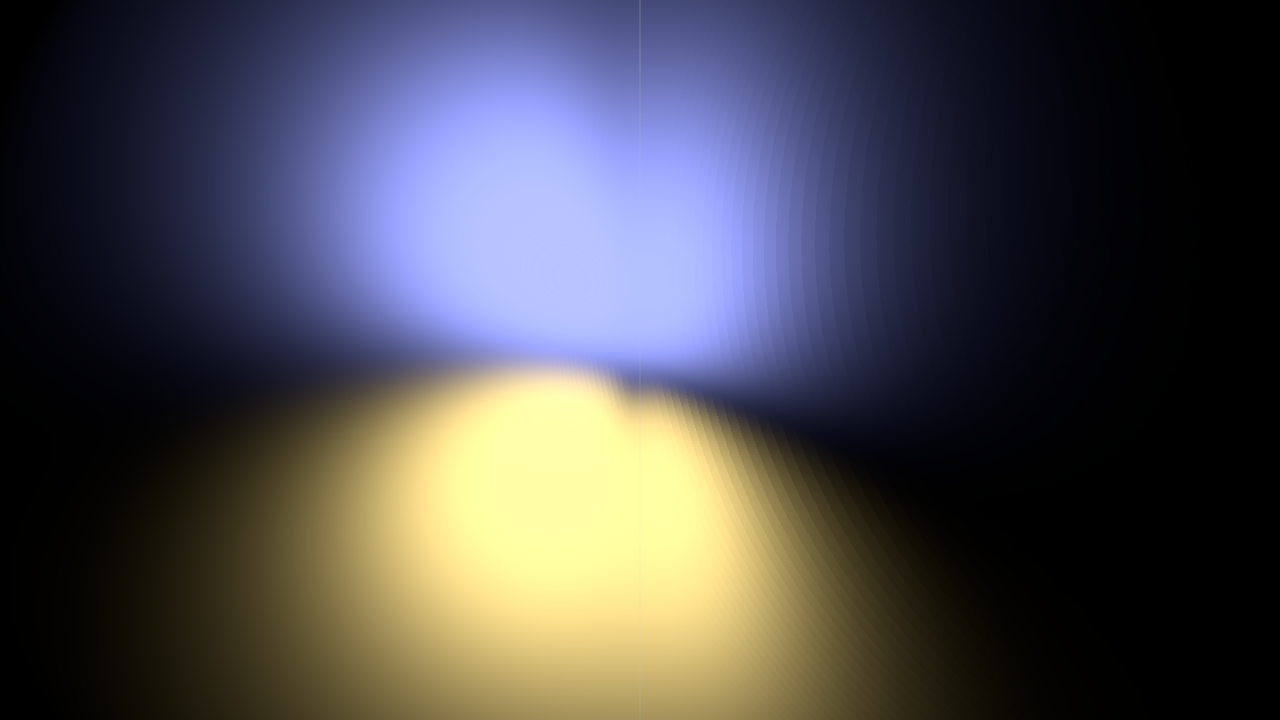
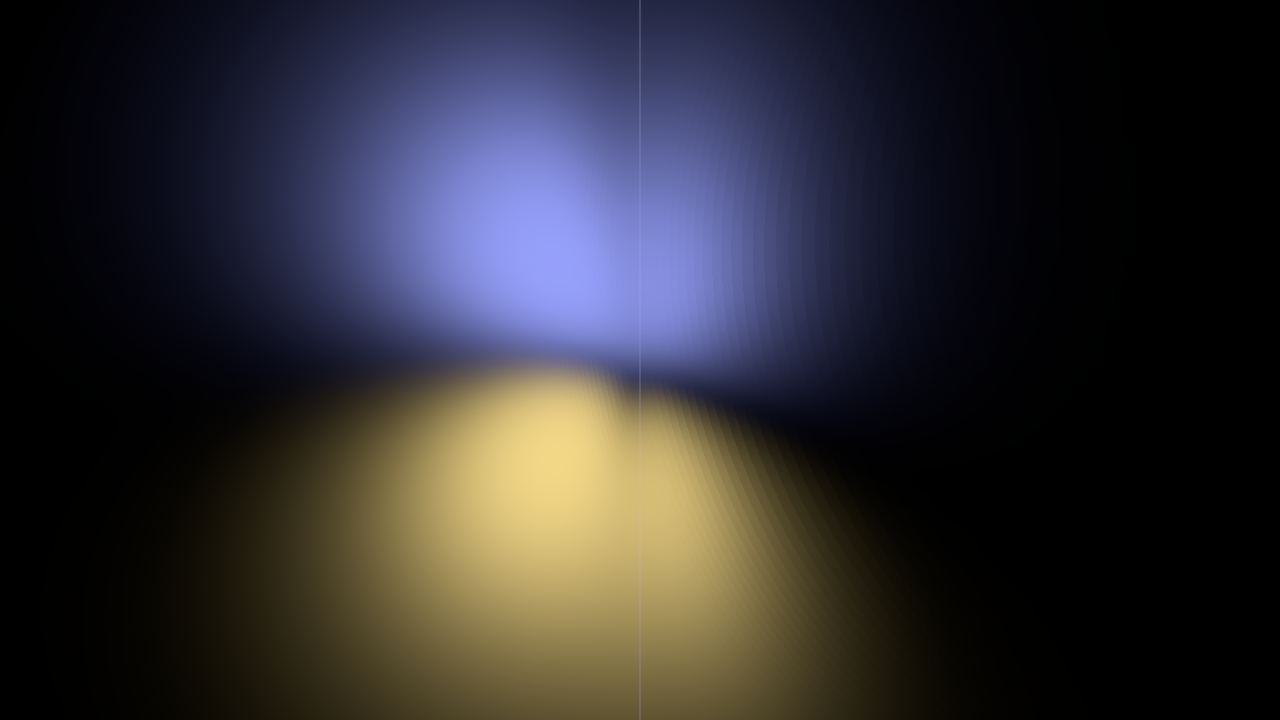
Let the potential and hydrogen fog fall to black
At their true brightness these two filled the canvas with colour. Low potential
and thin fog now fade toward black, with the sign and ordering unchanged, and the
guides stop promising restarts and darts clearing that no longer happen.

diff --git a/src/atlas/guides.rs b/src/atlas/guides.rs
@@ -417,8 +417,8 @@ ViewGuide {
 ViewGuide {
     module: "statmech.montecarlo",
     view: "pi",
-    read: "Darts land uniformly in the grey square [−1, 1]². Gold dots fall inside the gold unit circle and blue dots outside, so 4 × gold ÷ all estimates π. All darts clear when time wraps.",
-    try_this: "Raise \"Samples per second\" to 2000: about 24,000 darts fill the square before the 12 s loop clears them.",
+    read: "Darts land uniformly in the grey square [−1, 1]². Gold dots fall inside the gold unit circle and blue dots outside, so 4 × gold ÷ all estimates π. Rewinding time clears them.",
+    try_this: "Raise \"Samples per second\" to 2000: the square fills toward the 26,000 darts drawn, while the estimate in the side panel keeps sharpening.",
     params: &["rate"],
 },
 ViewGuide {
@@ -730,7 +730,7 @@ ViewGuide {
     module: "diffeq.odes",
     view: "vdp",
     read: "Horizontal is x and vertical is ẋ. Each coloured trail is one solution of the Van der Pol equation from a different start, with a dot at its current state. The trails converge on one closed curve, the limit cycle.",
-    try_this: "Set \"Van der Pol μ\" to 0.2: trails restart and wind onto a near-circle of radius 2. At 4 the cycle stretches past the frame.",
+    try_this: "Set \"Van der Pol μ\" to 0.2: the orbits relax onto a near-circle of radius 2. At 4 the cycle stretches past the frame.",
     params: &["mu"],
 },
 ViewGuide {

diff --git a/src/modules/hydrogen.rs b/src/modules/hydrogen.rs
@@ -111,7 +111,7 @@ fn shade(ndc: vec2<f32>, uv: vec2<f32>) -> vec4<f32> {
             else { hue = vec3<f32>(0.30, 0.35, 0.95); }
         }
         let a = 1.0 - exp(-dens * ds);
-        acc += trans * a * hue * 1.6;
+        acc += trans * a * hue * 1.1;
         trans *= 1.0 - a;
         if (trans < 0.02) { break; }
     }
@@ -395,7 +395,7 @@ impl ConceptModule for HydrogenSanctum {
         scene.p(1, l as f32);
         scene.p(2, (m + 4) as f32);
         // Density autoscale ~ n^6 to keep clouds visible across n.
-        scene.p(3, self.params.f("dens") as f32 * (n as f32).powi(6) * 2.2);
+        scene.p(3, self.params.f("dens") as f32 * (n as f32).powi(6) * 0.9);
         scene.p(4, if mode == 2 { 1.0 } else { 0.0 });
         scene.p(
             5,

diff --git a/src/modules/em.rs b/src/modules/em.rs
@@ -31,9 +31,9 @@ fn shade(ndc: vec2<f32>, uv: vec2<f32>) -> vec4<f32> {
     var color = vec3<f32>(0.0);
     let m = clamp(abs(phi) / (2.5 + abs(phi)), 0.0, 1.0);
     if (phi > 0.0) {
-        color = mix(color, vec3<f32>(0.85, 0.30, 0.45), m * 0.75);
+        color = vec3<f32>(0.85, 0.30, 0.45) * m * m * 0.62;
     } else {
-        color = mix(color, vec3<f32>(0.15, 0.45, 0.90), m * 0.75);
+        color = vec3<f32>(0.15, 0.45, 0.90) * m * m * 0.62;
     }
     // Equipotential bands.
     let band = abs(fract(phi * 1.4) - 0.5) * 2.0;
